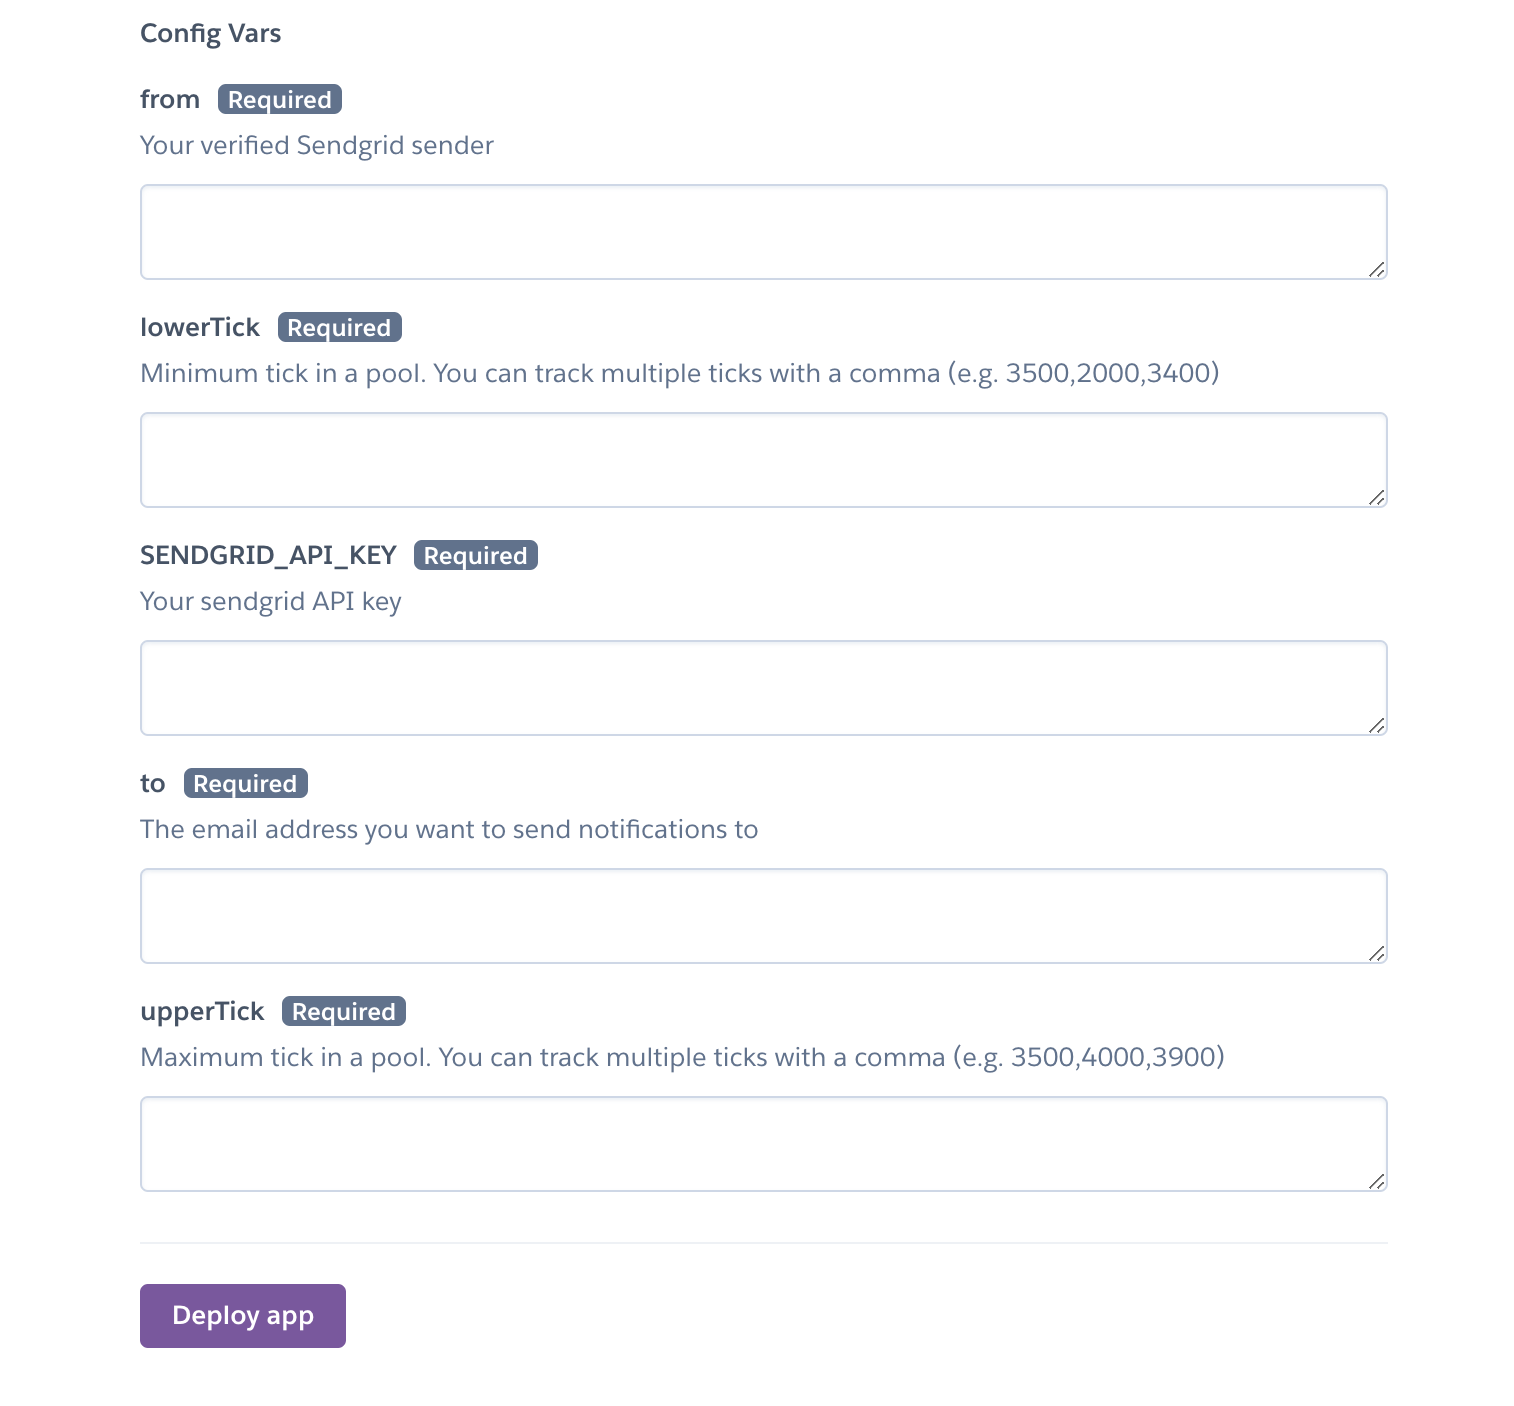
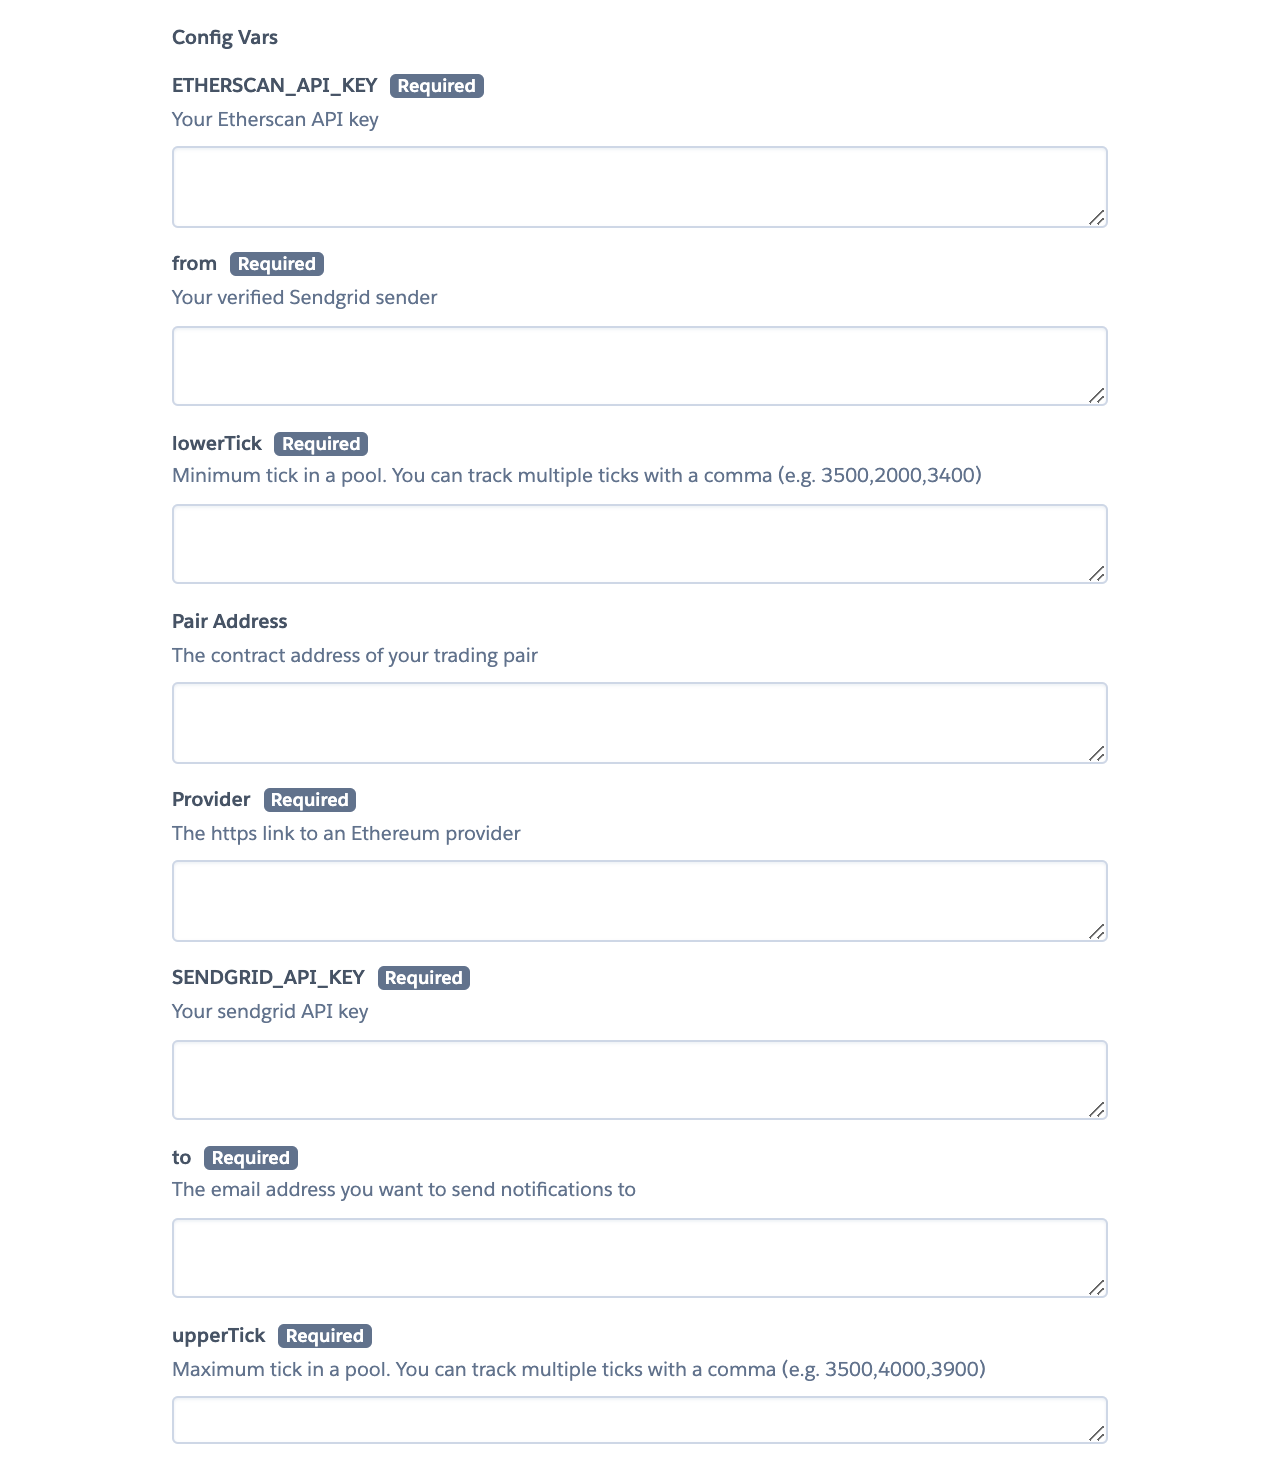
update readme

diff --git a/README.md b/README.md
@@ -16,14 +16,28 @@ To create an API key, go to Settings > API Keys on SendGrid’s dashboard, then 
 
 ![](images/SendGrid-Create-API-Key.jpeg)
 
-### 2. Specify your trading bounds
+### 2. Generate an Etherscan API Key
+
+* Create an account on Etherscan.
+* Go to https://etherscan.io/myapikey, then click on Add to generate an API key.
+* Copy the API Key and store in a safe place.
+
+### 3. Connect to an Endpoint 
+
+There are various Ethereum nodes available out there. You can register on Infura, Alchemy, etc. If you're using Infura for your project, you can connect to the endpoint by doing the following:
+
+* Go to https://infura.io/dashboard/ethereum/
+* Navigate to settings
+* Make sure you're on the Mainnet, then copy the generated address.
+
+### 4. Specify your trading bounds
 
 Next, you'll need to specify the trading bounds you set in your LP positions. You do this by setting the following environment variables:
 
 1. `lowerTick` - This is the minimum USD price per ETH set for your LP position. You can add multiple LP positions by adding a comma (e.g. `2000,2100,1000`)
 2. `upperTick` - This is the maximum USD price per ETH set for your LP position. You can add multiple LP positions by adding a comma (e.g. `4000,4100,5000`)
 
-### 4. Deploy to Heroku and add environment variables
+### 5. Deploy to Heroku and add environment variables
 
 [![Deploy to Heroku](https://www.herokucdn.com/deploy/button.svg)](https://heroku.com/deploy?template=https://github.com/buycoinsresearch/lpmonitor)
 
@@ -32,7 +46,7 @@ When deploying, you'll need to add the environment variables from the previous s
 ![](./images/env.png)
 
 
-### 5. Setup Heroku Scheduler
+### 6. Setup Heroku Scheduler
 
 Finally, go to your Heroku project "Resources" tab and click the Heroku Scheduler Add-on.
 
@@ -44,7 +58,7 @@ Next, create a new job using the following settings:
 ![](./images/heroku-scheduler.png)
 
 
-### 6. (Optional) Get updates
+### 7. (Optional) Get updates
 
 If you want to get updates on this project as we continue to improve it, you'll need to create a fork of this repository to your Github account. 
 
